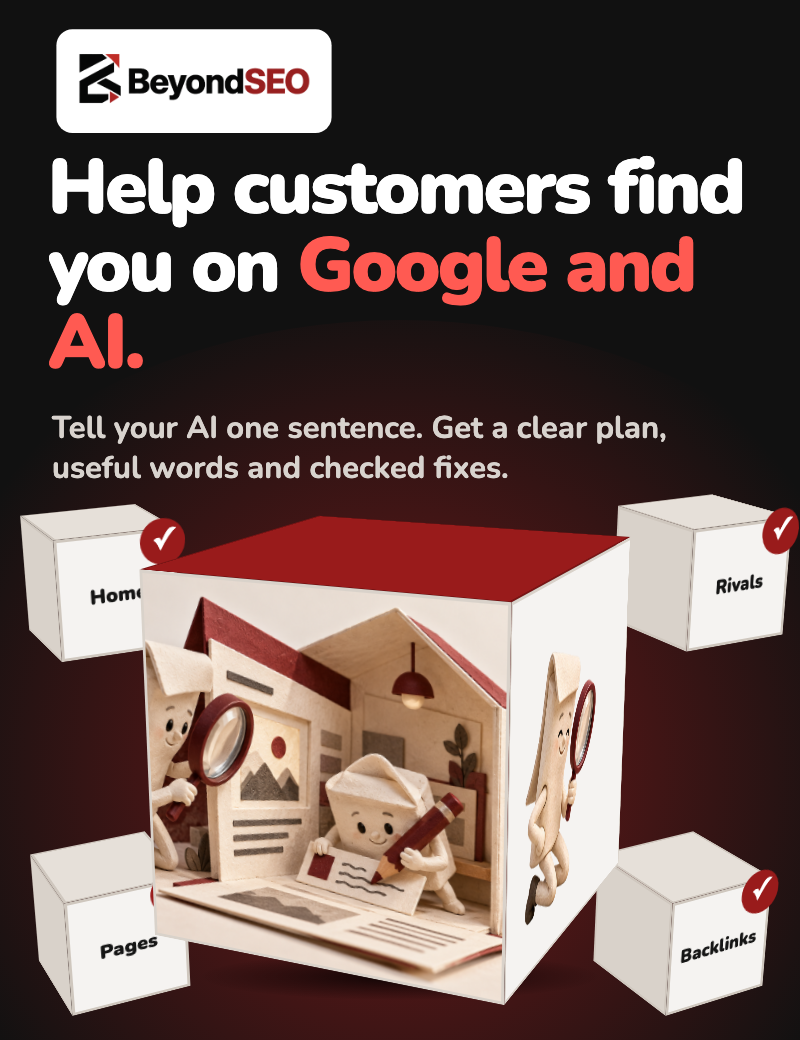
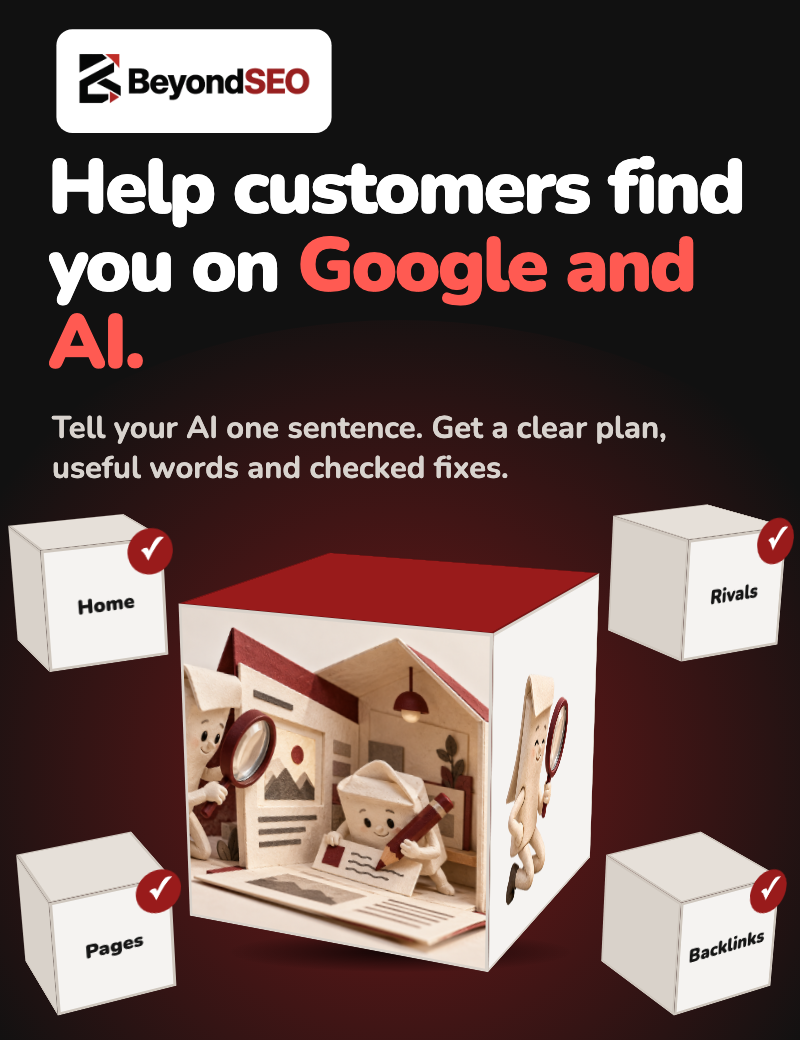
Keep every label visible in the mobile hero

Changed region(s): [[0.0, 0.4615, 1.0, 0.9846]]

diff --git a/media/paperworks/source/hero.html b/media/paperworks/source/hero.html
@@ -29,5 +29,5 @@ const w=document.getElementById(id);w.insertAdjacentHTML('beforeend',`<div class
 </script>
 <section id="desktop"><div class="glow"></div><img class="logo" src="../wordmark.png" alt=""><h1>Help customers find you on <em>Google and AI.</em></h1><p>Tell your AI one sentence. Get a clear plan, useful words and checked fixes.</p></section>
 <section id="mobile"><div class="glow"></div><img class="logo" src="../wordmark.png" alt=""><h1>Help customers find you on <em>Google and AI.</em></h1><p>Tell your AI one sentence. Get a clear plan, useful words and checked fixes.</p></section>
-<script>box('desktop',370,1190,300,[['Home',800,60],['Rivals',1420,40],['Backlinks',1430,420],['Pages',790,440]]);box('mobile',360,400,730,[['Home',40,520],['Rivals',640,510],['Backlinks',620,860],['Pages',50,860]]);</script>
+<script>box('desktop',370,1190,300,[['Home',800,60],['Rivals',1420,40],['Backlinks',1430,420],['Pages',790,440]]);box('mobile',310,400,740,[['Home',28,530],['Rivals',635,520],['Backlinks',628,860],['Pages',36,860]]);</script>
 </html>
